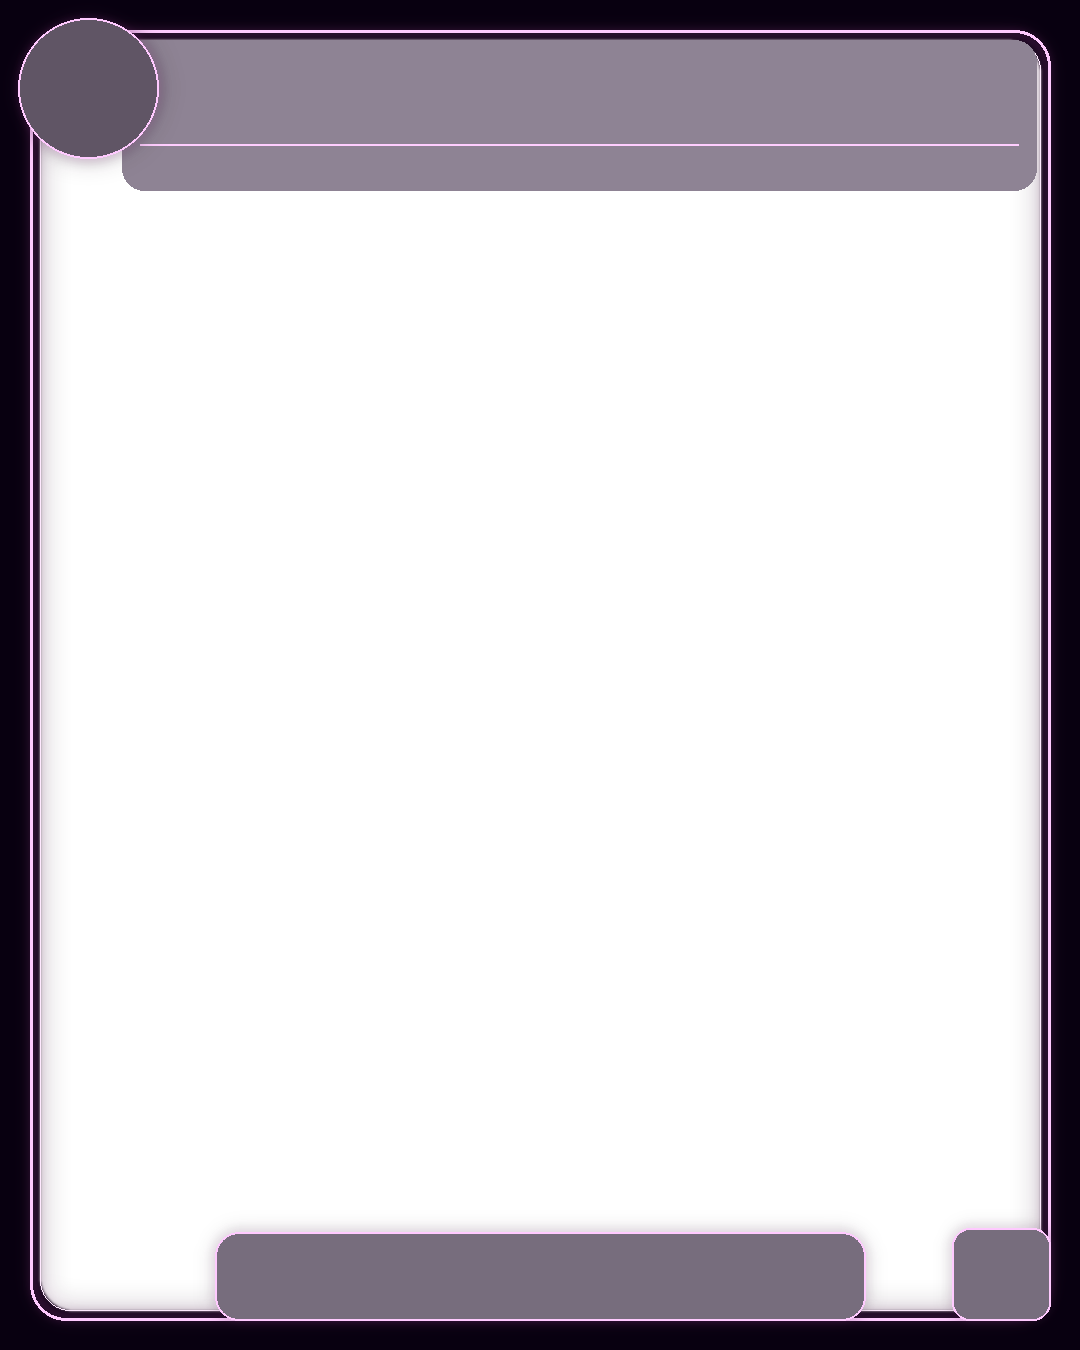
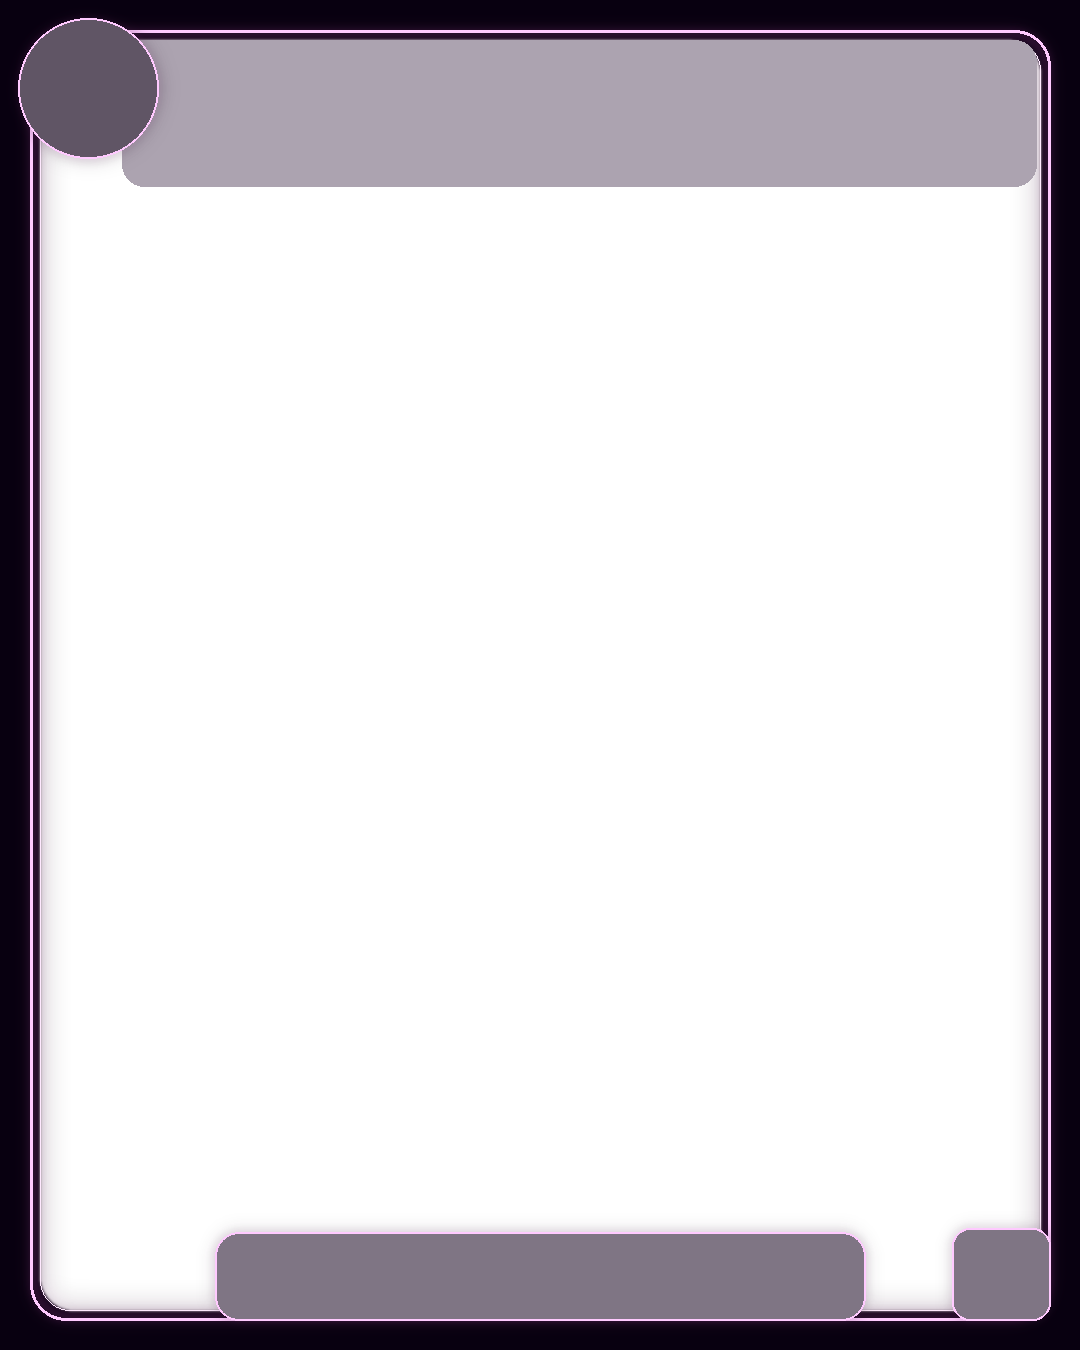
Renderer update

Changed region(s): [[0.0917, 0.0311, 0.9778, 0.1556]]

diff --git a/includes/photo-uploads.php b/includes/photo-uploads.php
@@ -631,7 +631,7 @@ function photo_render_framed_image($sourcePath, $destPath, $event, $orientation 
         $canvas->compositeImage($overlay, Imagick::COMPOSITE_OVER, 0, 0);
 
         $logo = new Imagick($logoPath);
-        $logoSize = $landscape ? 104 : 104;
+        $logoSize = $landscape ? 110 : 110;
         $logo->resizeImage($logoSize, $logoSize, Imagick::FILTER_LANCZOS, 1, true);
         $logoX = $landscape ? 36 : 36;
         $logoY = $landscape ? 36 : 36;
@@ -672,29 +672,29 @@ function photo_render_framed_image($sourcePath, $destPath, $event, $orientation 
 
             $venueText = ($venueLine !== '' ? $venueLine : 'Dance Thru The Decades');
             $dateText = ($dateLine !== '' ? $dateLine : 'TBA');
-            photo_imagick_draw_text($canvas, $venueText, 760, 72, $fontRegular, 18, 'rgba(245,245,255,0.96)', null, 0, 280);
-            photo_imagick_draw_text($canvas, $dateText, 1110, 72, $fontRegular, 18, 'rgba(245,245,255,0.96)', null, 0, 240);
+            photo_imagick_draw_text($canvas, $venueText, 760, 72, $fontBold, 19, '#ffd977', 'rgba(80,0,40,0.55)', 1, 300);
+            photo_imagick_draw_text($canvas, $dateText, 1110, 72, $fontBold, 19, '#ffd977', 'rgba(80,0,40,0.55)', 1, 250);
 
-            photo_imagick_draw_pill($canvas, 'EVENT PHOTO', 138, 104, $fontBold, 15, 'white', '#f7aaff', 'rgba(12,0,20,0.72)', 20, 30, 220);
+            photo_imagick_draw_pill($canvas, 'EVENT PHOTO', 138, 86, $fontBold, 15, 'white', '#f7aaff', 'rgba(12,0,20,0.74)', 20, 30, 220);
             $creditName = trim((string)$creditName);
             if ($creditName !== '') {
-                photo_imagick_draw_pill($canvas, 'Photo by ' . $creditName, 1208, 104, $fontRegular, 14, 'white', '#f7aaff', 'rgba(12,0,20,0.72)', 18, 30, 260);
+                photo_imagick_draw_pill($canvas, 'Photo by ' . $creditName, 1168, 86, $fontBold, 14, 'white', '#f7aaff', 'rgba(12,0,20,0.74)', 18, 30, 320);
             }
 
-            photo_imagick_draw_text($canvas, 'Dance Thru The Decades', 800, 1110, $fontBold, 29, '#ffcf40', 'rgba(80,0,40,0.75)', 1, 0, Imagick::ALIGN_CENTER);
-            photo_imagick_draw_text($canvas, '60s  •  70s  •  80s  •  90s  •  00s', 800, 1139, $fontRegular, 16, '#ffcf40', null, 0, 0, Imagick::ALIGN_CENTER);
+            photo_imagick_draw_text($canvas, 'Dance Thru The Decades', 800, 1108, $fontBold, 29, '#ffcf40', 'rgba(80,0,40,0.75)', 1, 0, Imagick::ALIGN_CENTER);
+            photo_imagick_draw_text($canvas, '60s  •  70s  •  80s  •  90s  •  00s', 800, 1138, $fontRegular, 16, '#ffcf40', null, 0, 0, Imagick::ALIGN_CENTER);
         } else {
             $titleX = 182;
             $titleY = 76;
             $titleMaxW = 560;
             $titleSize = photo_imagick_fit_font_size($canvas, $eventName, $fontBold, 32, $titleMaxW, 22);
             photo_imagick_draw_text($canvas, $eventName, $titleX, $titleY, $fontBold, $titleSize, '#ffcf40', 'rgba(80,0,40,0.75)', 1, $titleMaxW);
-            photo_imagick_draw_text($canvas, ($venueLine !== '' ? $venueLine : 'Dance Thru The Decades'), 158, 110, $fontRegular, 18, 'rgba(245,245,255,0.96)', null, 0, 560);
-            photo_imagick_draw_text($canvas, ($dateLine !== '' ? $dateLine : 'TBA'), 158, 136, $fontRegular, 18, 'rgba(245,245,255,0.96)', null, 0, 560);
-            photo_imagick_draw_pill($canvas, 'EVENT PHOTO', 158, 154, $fontBold, 15, 'white', '#f7aaff', 'rgba(12,0,20,0.72)', 20, 30, 190);
+            photo_imagick_draw_text($canvas, ($venueLine !== '' ? $venueLine : 'Dance Thru The Decades'), 158, 110, $fontBold, 19, '#ffd977', 'rgba(80,0,40,0.55)', 1, 560);
+            photo_imagick_draw_text($canvas, ($dateLine !== '' ? $dateLine : 'TBA'), 158, 136, $fontBold, 19, '#ffd977', 'rgba(80,0,40,0.55)', 1, 560);
+            photo_imagick_draw_pill($canvas, 'EVENT PHOTO', 158, 154, $fontBold, 15, 'white', '#f7aaff', 'rgba(12,0,20,0.74)', 20, 30, 210);
             $creditName = trim((string)$creditName);
             if ($creditName !== '') {
-                photo_imagick_draw_pill($canvas, 'Photo by ' . $creditName, 690, 154, $fontRegular, 14, 'white', '#f7aaff', 'rgba(12,0,20,0.72)', 16, 30, 230);
+                photo_imagick_draw_pill($canvas, 'Photo by ' . $creditName, 670, 154, $fontBold, 14, 'white', '#f7aaff', 'rgba(12,0,20,0.74)', 18, 30, 280);
             }
             photo_imagick_draw_text($canvas, 'Dance Thru The Decades', 540, 1268, $fontBold, 26, '#ffcf40', 'rgba(80,0,40,0.75)', 1, 0, Imagick::ALIGN_CENTER);
             photo_imagick_draw_text($canvas, '60s  •  70s  •  80s  •  90s  •  00s', 540, 1289, $fontRegular, 14, '#ffcf40', null, 0, 0, Imagick::ALIGN_CENTER);
